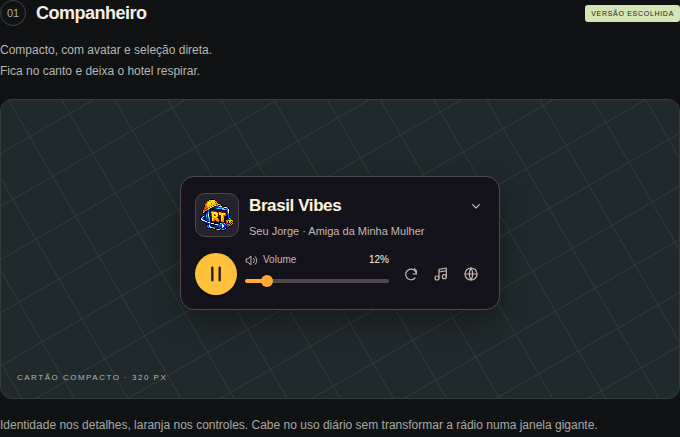
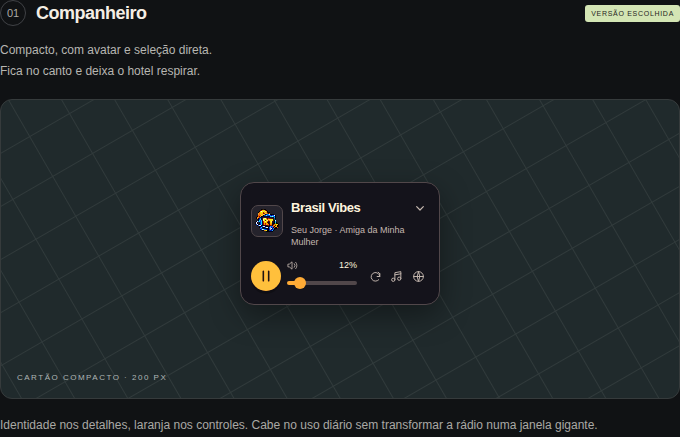
Fit player to the hotel sidebar and persist draggable placement

diff --git a/player-placement.js b/player-placement.js
@@ -1,0 +1,128 @@
+/* Start in the hotel's notification column; allow a saved floating position. */
+(() => {
+  const KEY = 'radioPlayerPlacement';
+  const GAP = 8;
+  function mount(widget) {
+    const host = widget.host;
+    const handle = widget.root.querySelector('.now');
+    let saved;
+    let slot;
+    let anchor;
+    let observedStack;
+    let interacted = false;
+    let drag;
+    let frame;
+    let destroyed = false;
+    const clamp = (value, max) => Math.max(GAP, Math.min(Math.max(GAP, max), value));
+    function position(left, top) {
+      const rect = host.getBoundingClientRect();
+      host.style.left = `${clamp(left, innerWidth - rect.width - GAP)}px`;
+      host.style.top = `${clamp(top, innerHeight - rect.height - GAP)}px`;
+      host.style.right = 'auto';
+      host.style.bottom = 'auto';
+    }
+    function removeSlot() {
+      if (observedStack) resize.unobserve(observedStack);
+      observedStack = null; slot?.remove(); slot = null; anchor = null;
+    }
+    function layout() {
+      frame = null;
+      if (destroyed || drag?.moved) return;
+      if (saved) { removeSlot(); position(saved.left, saved.top); return; }
+      const native = [...document.querySelectorAll('.nitro-notification-bubble')].find(bubble => {
+        const rect = bubble.getBoundingClientRect();
+        return rect.width > 0 && rect.height > 0 && /r[aá]dio\s*habblet/i.test(bubble.textContent);
+      });
+      if (native?.parentElement) {
+        if (anchor !== native || !slot?.isConnected) {
+          removeSlot();
+          anchor = native;
+          slot = document.createElement('div');
+          slot.dataset.tabbletRadioSlot = '';
+          slot.setAttribute('aria-hidden', 'true');
+          slot.style.cssText = 'box-sizing:border-box;flex:0 0 auto;pointer-events:none;width:100%;';
+          native.after(slot);
+          observedStack = native.parentElement;
+          resize.observe(observedStack);
+        }
+        const rect = native.getBoundingClientRect();
+        host.style.width = `${Math.min(Math.max(180, rect.width), 240, innerWidth - GAP * 2)}px`;
+        slot.style.height = `${host.getBoundingClientRect().height}px`;
+        const target = slot.getBoundingClientRect();
+        position(rect.left, target.top);
+      } else {
+        removeSlot();
+        const width = host.getBoundingClientRect().width;
+        position(innerWidth - width - GAP, 80);
+      }
+    }
+    function schedule() { if (!destroyed && !frame) frame = requestAnimationFrame(layout); }
+    const resize = new ResizeObserver(schedule);
+    resize.observe(host);
+    const observer = new MutationObserver(records => {
+      if (saved) return;
+      if (!slot?.isConnected || !anchor?.isConnected || records.some(record => [...record.addedNodes].some(node => node.nodeType === 1 && (node.matches('.nitro-notification-bubble') || node.querySelector('.nitro-notification-bubble'))))) schedule();
+    });
+    observer.observe(document.documentElement, { childList: true, subtree: true });
+    handle.style.cursor = 'grab';
+    handle.style.touchAction = 'none';
+    handle.title = 'Arraste para mover o player';
+    const start = event => {
+      if (event.button !== 0 || event.target.closest('button,a,input,select,textarea')) return;
+      interacted = true;
+      const rect = host.getBoundingClientRect();
+      drag = { id: event.pointerId, x: event.clientX, y: event.clientY, left: rect.left, top: rect.top, moved: false, previous: saved };
+      handle.setPointerCapture(event.pointerId);
+      event.preventDefault();
+    };
+    const move = event => {
+      if (!drag || event.pointerId !== drag.id) return;
+      const dx = event.clientX - drag.x, dy = event.clientY - drag.y;
+      if (!drag.moved && Math.hypot(dx, dy) < 4) return;
+      drag.moved = true;
+      removeSlot();
+      handle.style.cursor = 'grabbing';
+      position(drag.left + dx, drag.top + dy);
+    };
+    const finish = event => {
+      if (!drag || event.pointerId !== drag.id) return;
+      if (event.type === 'pointercancel') saved = drag.previous;
+      else if (drag.moved) {
+        const rect = host.getBoundingClientRect();
+        saved = { left: rect.left, top: rect.top };
+        chrome.storage.local.set({ [KEY]: saved }).catch(() => widget.announce('Não foi possível salvar a posição do player.'));
+      }
+      drag = null;
+      handle.style.cursor = 'grab';
+      if (handle.hasPointerCapture(event.pointerId)) handle.releasePointerCapture(event.pointerId);
+      schedule();
+    };
+    const preventImageDrag = event => event.preventDefault();
+    handle.addEventListener('pointerdown', start);
+    handle.addEventListener('pointermove', move);
+    handle.addEventListener('pointerup', finish);
+    handle.addEventListener('pointercancel', finish);
+    handle.addEventListener('dragstart', preventImageDrag);
+    window.addEventListener('resize', schedule);
+    window.addEventListener('scroll', schedule, true);
+    chrome.storage.local.get(KEY).then(data => {
+      const value = data[KEY];
+      if (!destroyed && !interacted && Number.isFinite(value?.left) && Number.isFinite(value?.top)) saved = value;
+      schedule();
+    }).catch(schedule);
+    layout();
+    return () => {
+      destroyed = true;
+      cancelAnimationFrame(frame);
+      observer.disconnect(); resize.disconnect(); removeSlot();
+      window.removeEventListener('resize', schedule);
+      window.removeEventListener('scroll', schedule, true);
+      handle.removeEventListener('pointerdown', start);
+      handle.removeEventListener('pointermove', move);
+      handle.removeEventListener('pointerup', finish);
+      handle.removeEventListener('pointercancel', finish);
+      handle.removeEventListener('dragstart', preventImageDrag);
+    };
+  }
+  globalThis.TabbletPlacement = { mount };
+})();

diff --git a/player.css b/player.css
@@ -1,6 +1,6 @@
 :host{all:initial;display:block;color-scheme:dark;font-family:Arial,sans-serif;font-size:13px;line-height:1.4;text-align:left}
 *{box-sizing:border-box}button,input,select{font:inherit}button{cursor:pointer}button:disabled{cursor:wait;opacity:.6}button,select,input{touch-action:manipulation}button:focus-visible,input:focus-visible,select:focus-visible,a:focus-visible{outline:2px solid var(--accent);outline-offset:3px}[hidden]{display:none!important}svg{width:18px;height:18px;fill:none;stroke:currentColor;stroke-width:1.8;stroke-linecap:round;stroke-linejoin:round;flex-shrink:0}button{transition:background .16s,color .16s,filter .16s}button:hover{filter:brightness(1.12)}
-.player{font-family:Arial,sans-serif;font-size:13px;line-height:1.4;text-align:left;--bg:#14131b;--surface:#25232c;--border:#51474a;--text:#fff4de;--muted:#c4b7af;--accent:#ffab36;background:var(--bg);color:var(--text);border:1px solid var(--border);border-radius:14px;box-shadow:0 10px 30px #0006;overflow:auto;max-height:inherit;isolation:isolate;width:100%}
+.player{font-family:Arial,sans-serif;font-size:13px;line-height:1.4;text-align:left;--bg:#14131b;--surface:#25232c;--border:#51474a;--text:#fff4de;--muted:#c4b7af;--accent:#ffab36;background:var(--bg);color:var(--text);border:1px solid var(--border);border-radius:14px;box-shadow:0 10px 30px #0006;overflow:auto;max-height:inherit;isolation:isolate;container-type:inline-size;width:100%}
 .icon-button{display:grid;place-items:center;border:0;background:transparent;color:var(--muted);width:36px;height:36px;flex-shrink:0;border-radius:8px}.icon-button:hover{background:var(--surface);color:var(--text)}
 .body{padding:14px}.now{display:flex;align-items:center;gap:12px;margin-bottom:14px}.avatar-wrap{width:52px;height:52px;flex-shrink:0;background:var(--surface);border:1px solid var(--border);border-radius:10px;display:grid;grid-template: minmax(0,1fr) / minmax(0,1fr);place-items:center;padding:4px;overflow:hidden}.avatar{display:block;width:100%;height:100%;min-width:0;min-height:0;object-fit:contain;object-position:center;image-rendering:pixelated}.now-copy{min-width:0;flex:1;display:flex;flex-direction:column;justify-content:center;gap:3px}.eyebrow{display:flex;align-items:center;gap:5px;font-size:9px;font-weight:700;letter-spacing:.6px;color:var(--muted);margin-bottom:8px}.dot{height:6px;width:6px;background:var(--muted);border-radius:50%;flex-shrink:0}.audience{margin-left:auto;white-space:nowrap;font-size:9px;letter-spacing:0;font-weight:400}.title{font-size:19px;line-height:1.2;letter-spacing:-.5px;font-weight:750;margin:0;overflow-wrap:anywhere}.subtitle{font-size:11px;line-height:1.4;color:var(--muted);margin:0;display:-webkit-box;-webkit-line-clamp:2;-webkit-box-orient:vertical;overflow:hidden}.player[data-live=true] .dot{background:#ff8270}.player[data-live=true] .mode{color:#ff9b8c}
 .transport{display:flex;align-items:center;gap:14px;margin-bottom:0}.play{width:48px;height:48px;display:grid;place-items:center;border:0;border-radius:50%;background:var(--accent);color:#191511;flex-shrink:0;box-shadow:0 3px 0 #0004}.play svg{width:22px;height:22px;stroke-width:2.5}.play svg:has(path[d^="m9"]){fill:currentColor;stroke:none}.volume-group{flex:1;min-width:0}.volume-label{display:flex;justify-content:space-between;align-items:center;color:var(--muted);font-size:10px}.volume-label>span{display:flex;align-items:center;gap:5px}.volume-label svg{height:13px;width:13px}output{font-variant-numeric:tabular-nums;color:var(--text)}input[type=range]{display:block;width:100%;height:28px;margin:0;padding:0;appearance:none;background:transparent;cursor:pointer;--level:50%}input[type=range]::-webkit-slider-runnable-track{background:linear-gradient(to right,var(--accent) var(--level),var(--border) var(--level));height:4px;border-radius:3px}input[type=range]::-webkit-slider-thumb{appearance:none;border:0;background:var(--accent);width:12px;height:12px;border-radius:50%;margin-top:-4px}input[type=range]::-moz-range-track{background:var(--border);height:4px}input[type=range]::-moz-range-progress{background:var(--accent);height:4px}input[type=range]::-moz-range-thumb{border:0;background:var(--accent);width:12px;height:12px;border-radius:50%}.restart{width:30px}
@@ -11,3 +11,7 @@
 @media(max-width:360px){.body{padding:12px}.audience{font-size:8px}.title{font-size:17px}.transport{gap:10px}}
 @media(prefers-reduced-motion:reduce){*,*::before,*::after{transition:none!important;animation:none!important}}
 .quick-actions{display:flex;align-items:center;gap:2px;flex-shrink:0}.quick-actions .icon-button{width:28px;height:32px;text-decoration:none}.quick-actions svg{width:16px;height:16px}.compact .transport{gap:8px}
+
+@container (max-width:240px){
+ .compact .body{padding:10px}.compact .avatar-wrap{width:32px;height:32px;border-radius:7px;padding:3px}.compact .now{gap:8px;margin-bottom:10px}.compact .title,.compact select{font-size:13px}.presenter-row .title{overflow:hidden;text-overflow:ellipsis;white-space:nowrap;overflow-wrap:normal}.now-copy{gap:1px}.subtitle{font-size:9px}.eyebrow{font-size:8px;margin-bottom:6px}.audience{font-size:8px}.follow{width:22px;height:24px}.follow svg{width:12px;height:12px}.presenter-row{gap:2px}.compact .play{width:30px;height:30px}.play svg{width:16px;height:16px}.compact .transport{gap:6px}.quick-actions{gap:0}.quick-actions .icon-button{width:22px;height:28px}.quick-actions svg{width:13px;height:13px}.volume-label{font-size:9px}.volume-label>span{font-size:0;gap:0}.volume-label svg{width:11px;height:11px}input[type=range]{height:22px}.notice{font-size:10px;padding:6px}
+}

diff --git a/preview/index.html b/preview/index.html
@@ -2,7 +2,7 @@
 <header class="top"><a href="#" class="wordmark">TABBLET<span>LAB / EXTENSÃO</span></a><span class="tag">ESTUDO INTERATIVO · 01</span></header>
 <main><div class="intro"><div><p class="kicker">RÁDIO NO HOTEL, DO SEU JEITO</p><h1>Menos bloco roxo.<br>Mais <em>Tabblet.</em></h1><p class="lede">Um player compacto para ouvir dentro do Habblet.<br>A mesma identidade do site. O canal e o volume que você escolheu.</p></div><img class="mascot" src="../assets/themes/halloween-construction-2026/mascot.webp" alt="Mascote da edição Beta assombrado"></div>
 <section class="toolbar" aria-label="Simular o player"><div><label for="theme">EDIÇÃO DA RÁDIO</label><select id="theme"><option value="halloween-construction-2026">Halloween · Beta assombrado</option><option value="under-construction">Tabblet em obras</option><option value="default">Tabblet original</option><option value="election-runoff-2026">Arena Tabblet</option></select></div><div class="simulation"><span class="sim-label">SIMULAR PROGRAMAÇÃO</span><button id="live" type="button" aria-pressed="false"><span class="live-dot"></span>Locutor fora do ar</button></div><p>Troque o canal, ajuste o volume e simule uma live.<br>Dê F5 para conferir suas preferências.</p></section>
-<section class="concepts"><article><div class="concept-head"><span>01</span><h2>Companheiro</h2><small>VERSÃO ESCOLHIDA</small></div><p class="description">Compacto, com avatar e seleção direta.<br>Fica no canto e deixa o hotel respirar.</p><div class="stage stage-a"><div class="hotel-grid"></div><div id="compact"></div><span class="stage-caption">CARTÃO COMPACTO · 320 PX</span></div><p class="detail">Identidade nos detalhes, laranja nos controles. Cabe no uso diário sem transformar a rádio numa janela gigante.</p></article>
+<section class="concepts"><article><div class="concept-head"><span>01</span><h2>Companheiro</h2><small>VERSÃO ESCOLHIDA</small></div><p class="description">Compacto, com avatar e seleção direta.<br>Fica no canto e deixa o hotel respirar.</p><div class="stage stage-a"><div class="hotel-grid"></div><div id="compact"></div><span class="stage-caption">CARTÃO COMPACTO · 200 PX</span></div><p class="detail">Identidade nos detalhes, laranja nos controles. Cabe no uso diário sem transformar a rádio numa janela gigante.</p></article>
 </section>
 <section class="flow"><div><p class="kicker">SUA MÚSICA CONTINUA AQUI</p><h2>Seu canal espera você.</h2></div><ol><li><span>01</span><strong>Brasil Vibes</strong><p>Você escolhe o canal.<br>Volume e preferência ficam salvos.</p></li><li><span>02</span><strong>Locutor entrou</strong><p>A Tabblet assume o áudio.<br>Uma pausa manual é respeitada.</p></li><li><span>03</span><strong>De volta ao seu ritmo</strong><p>Terminou a live?<br>Voltamos ao seu canal.</p></li></ol></section><footer class="page-footer"><span>Artes originais da Rádio Tabblet · Halloween / Beta em construção</span><span>Prévia simulada · sem reprodução de áudio</span></footer></main>
 <dialog id="music-request" aria-labelledby="request-title"><div class="request-content"><button class="request-close" type="button" data-close aria-label="Fechar pedido" title="Fechar">×</button><p class="kicker">DIRETO PRA BANCADA</p><h2 id="request-title">Qual é a próxima?</h2><p class="request-caption">Manda aquela que merece tocar na Tabblet.</p><form><label>Seu nick<input name="nick" required maxlength="30" autocomplete="nickname"></label><label>Música<input name="music" required maxlength="120"></label><label>Artista<input name="artist" maxlength="120"></label><label>Recadinho<textarea name="message" maxlength="500" rows="3"></textarea></label><button class="request-submit" type="submit">Simular pedido</button><small>Esta é uma prévia. Nenhum pedido será enviado.</small><output role="status"></output></form></div></dialog>

diff --git a/tests/fixtures/hotel.html b/tests/fixtures/hotel.html
@@ -1,0 +1,10 @@
+<!doctype html>
+<html lang="pt-BR"><head><meta charset="utf-8"><meta name="viewport" content="width=device-width,initial-scale=1"><title>Hotel layout fixture</title>
+<style>
+*{box-sizing:border-box}body{margin:0;background:#080a0d;font:12px Arial,sans-serif;color:#eee;height:100vh;overflow:hidden}.hotel-sidebar{position:fixed;top:12px;right:10px;width:200px;display:flex;flex-direction:column;gap:8px}.hotel-counter{padding:7px;border:1px solid #62676c;border-radius:4px;background:#25272b}.nitro-notification-bubble{width:100%;background:#25272b;border:1px solid #62676c;border-radius:5px;padding:6px}.native-radio-toggle{display:flex;justify-content:space-between;align-items:center;color:inherit;background:none;border:0;width:100%;padding:0;text-align:left;font-size:11px;cursor:pointer}.radio-item{display:flex;align-items:center;gap:8px;height:52px}.native-avatar{width:32px;height:32px;background:#71767d;border-radius:50%}.native-volume{height:5px;width:90px;background:#ddd;border-radius:8px}.hotel-notice{padding:10px;line-height:1.4}.hotel-bottom{position:fixed;bottom:0;height:55px;border-top:1px solid #666;background:#272a2d;width:100%;padding:16px}.chat-input{position:fixed;bottom:65px;left:35%;width:30%;height:34px;border:0;border-radius:5px;padding:7px;background:#eee;color:#222}.room{position:absolute;inset:25% 32%;display:grid;place-items:center;color:#7b8189;border:1px solid #323841;border-radius:12px}button:focus-visible{outline:2px solid #ffab36}
+</style></head><body>
+<div class="room">Quarto do hotel · cenário de teste</div>
+<aside class="hotel-sidebar"><div class="hotel-counter">Conchas <b>Info</b></div><div class="hotel-counter">Asinhas <b>1</b></div><div class="nitro-notification-bubble"><button class="native-radio-toggle" type="button" aria-expanded="true">RádioHabblet <span aria-hidden="true">⌃</span></button><div class="radio-item"><div class="native-avatar"></div><div class="native-volume"></div><audio id="original"></audio></div></div><div class="nitro-notification-bubble hotel-notice">As conversas nos quartos podem ser monitoradas pela moderação.</div></aside>
+<input class="chat-input" name="chat" maxlength="100" placeholder="Fale aqui…"><div class="hotel-bottom">Menu do hotel</div>
+<script>document.querySelector('.native-radio-toggle').addEventListener('click',event=>{const button=event.currentTarget;const expanded=button.getAttribute('aria-expanded')==='true';button.setAttribute('aria-expanded',String(!expanded));document.querySelector('.radio-item').hidden=expanded;});</script>
+</body></html>

diff --git a/preview/preview.css b/preview/preview.css
@@ -3,3 +3,5 @@
 .concepts{grid-template-columns:minmax(0,1fr);max-width:680px;margin-inline:auto}.concepts .stage{min-height:300px;align-items:center;padding:36px 16px 48px}.concepts .concept-head{max-width:none}
 
 #music-request{width:min(420px,calc(100vw - 32px));max-height:calc(100dvh - 40px);padding:0;border:1px solid #51474a;border-radius:14px;background:#14131b;color:#fff4de;box-shadow:0 24px 80px #0008}#music-request::backdrop{background:#000a}.request-content{position:relative;padding:28px}.request-close{position:absolute;right:12px;top:10px;background:transparent;color:#c4b7af;border:0;font-size:25px;width:32px;height:32px;cursor:pointer}.request-content h2{margin:0 0 8px;font-size:26px;letter-spacing:-.8px}.request-content .kicker{margin-bottom:12px;font-size:9px}.request-caption{margin:0 0 22px;font-size:13px;color:#c4b7af;line-height:1.5}.request-content form{display:flex;flex-direction:column;gap:14px}.request-content label{display:flex;flex-direction:column;gap:6px;font-size:12px;color:#c4b7af}.request-content input,.request-content textarea{font:inherit;padding:10px;border-radius:7px;border:1px solid #51474a;background:#25232c;color:#fff4de;min-width:0;width:100%;resize:vertical}.request-content input:focus-visible,.request-content textarea:focus-visible{outline:2px solid #ffab36;outline-offset:2px}.request-submit{padding:12px;border:0;border-radius:7px;color:#191511;background:#ffab36;font-size:13px;font-weight:700}.request-content small{color:#c4b7af;font-size:11px;line-height:1.5}.request-content output{font-size:12px;line-height:1.5;color:#94d5bc}.request-content output:empty{display:none}
+
+.concepts .stage>div[id]{max-width:200px}

diff --git a/content.js b/content.js
@@ -28,6 +28,7 @@
     }
   });
   document.body.append(widget.host);
+  const disposePlacement = TabbletPlacement.mount(widget);
   function muteHotelRadio() {
     if (!latest || latest.prefs.paused || latest.playback.state !== 'playing') return;
     for (const media of document.querySelectorAll('audio,video')) {
@@ -85,6 +86,7 @@
     document.removeEventListener('play', muteHotelRadio, true);
     document.removeEventListener('visibilitychange', onVisibility);
     for (const [media, muted] of originalMedia) media.muted = muted;
+    disposePlacement();
     widget.destroy();
   });
   void sync();

diff --git a/player-ui.js b/player-ui.js
@@ -14,7 +14,7 @@
     host.dataset.tabbletPlayer = '';
     host.className = 'tabblet-extension-host';
     if (floating) {
-      host.style.cssText = 'all:initial;position:fixed;right:16px;bottom:76px;z-index:2147483000;display:block;width:min(320px,calc(100vw - 24px));max-height:calc(100dvh - 96px);';
+      host.style.cssText = 'all:initial;position:fixed;right:16px;bottom:76px;z-index:2147483000;display:block;width:min(200px,calc(100vw - 16px));max-height:calc(100dvh - 96px);';
     }
     const root = host.attachShadow({ mode: 'open' });
     root.innerHTML = `

diff --git a/README.md b/README.md
@@ -9,7 +9,7 @@ Player Manifest V3 para Chrome/Edge 120 ou posterior. Adiciona um player compact
 3. Selecione a pasta deste projeto e abra `https://www.habblet.city/hotel`.
 4. Após alterar o código, recarregue a extensão na tela de extensões e depois a página do hotel.
 
-Não há build nem dependências para executar a extensão. O cartão fica no canto inferior direito, acima da barra do hotel; o player fica sempre aberto, sem cabeçalho ou controle de recolher. O ícone de nota musical abre o formulário de pedido no site em uma nova aba; o globo abre a página inicial. O ícone da barra do navegador ainda não tem popup.
+Não há build nem dependências para executar a extensão. O cartão começa alinhado à coluna direita, abaixo da Rádio Habblet e com a mesma largura dos painéis. É possível arrastá-lo pela área do avatar/nome, e a posição escolhida é salva; o player fica sempre aberto, sem cabeçalho ou controle de recolher. O ícone de nota musical abre o formulário de pedido no site em uma nova aba; o globo abre a página inicial. O ícone da barra do navegador ainda não tem popup.
 
 ## Reprodução e preferências
 
@@ -43,6 +43,7 @@ Abra `http://localhost:4187/preview/`. A prévia usa o mesmo componente visual d
 - `offscreen.html` / `offscreen.js`: um único HTMLAudioElement, com validação dos destinos de áudio.
 - `player-ui.js` / `player.css`: componente visual compartilhado com a prévia.
 - `content.js`: montagem do cartão, mensagens e integração com áudio/chat do hotel.
+- `player-placement.js`: encaixe inicial na coluna nativa, arraste, posição salva e limites da janela.
 - `site-actions.js`: abre o formulário nativo de pedidos no site a partir do atalho da extensão.
 
 ## Validar
